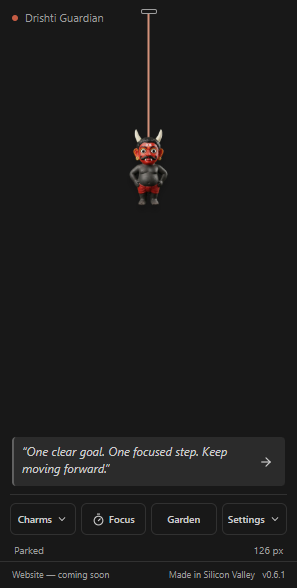
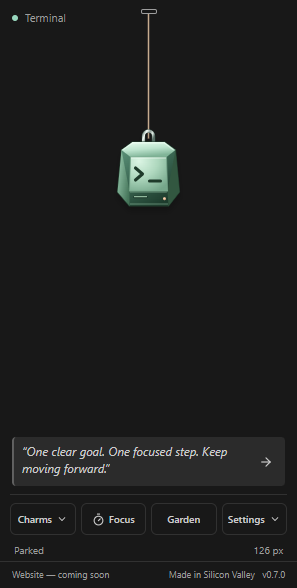
Fix photo cancellation and verify the refreshed collection

Changed region(s): [[0.3939, 0.0306, 0.6061, 0.3673], [0.0909, 0.0, 0.3333, 0.0612], [0.9091, 0.949, 0.9697, 0.9796]]

diff --git a/extension/src/test/companion-ui.test.ts b/extension/src/test/companion-ui.test.ts
@@ -1,7 +1,7 @@
 import { test, expect, _electron as electron, type ElectronApplication, type Frame, type Page, type TestInfo } from '@playwright/test';
 import { spawnSync } from 'node:child_process';
 import { resolveCliPathFromVSCodeExecutablePath } from '@vscode/test-electron';
-import { cpSync, existsSync, mkdirSync, mkdtempSync, readFileSync, realpathSync, writeFileSync } from 'node:fs';
+import { cpSync, existsSync, mkdirSync, mkdtempSync, readFileSync, readdirSync, realpathSync, writeFileSync } from 'node:fs';
 import { tmpdir } from 'node:os';
 import { dirname, join, resolve } from 'node:path';
 import { PNG } from 'pngjs';
@@ -900,6 +900,19 @@ test(`${installedPersonalization ? 'installed VSIX' : 'personalization'} keeps l
 				fixture.data.set(x < 200 ? [255, 0, 0, 255] : [0, 0, 255, 255], offset);
 			}
 		}
+		await frame.locator('#photo-file').focus();
+		await frame.locator('#photo-file').setInputFiles({ name: 'private-source.png', mimeType: 'image/png', buffer: PNG.sync.write(fixture) });
+		await expect(frame.locator('#photo-editor')).toHaveAttribute('data-photo-ready', 'true');
+		await expect(frame.locator('#photo-file')).toBeFocused();
+		await frame.locator('#photo-preview').click({ position: { x: 6, y: 6 } });
+		await editor.window.keyboard.press('Escape');
+		await expect(frame.locator('#photo-editor')).toBeHidden();
+		await expect(frame.locator('#stage')).toHaveAttribute('data-charm', 'live:smiley');
+		const photoDirectory = join(editor.storage, 'packs');
+		expect(existsSync(photoDirectory) ? readdirSync(photoDirectory).filter(file => file.startsWith('photo-')).length : 0).toBe(0);
+		await frame.getByRole('button', { name: 'Charm settings', exact: true }).click();
+		await frame.getByRole('menuitem', { name: 'Photo charms', exact: true }).click();
+		await expect(frame.locator('#photo-editor')).toHaveAttribute('data-photo-ready', 'false');
 		await frame.locator('#photo-file').setInputFiles({ name: 'private-source.png', mimeType: 'image/png', buffer: PNG.sync.write(fixture) });
 		await expect(frame.locator('#photo-editor')).toHaveAttribute('data-photo-ready', 'true');
 		await frame.locator('#photo-x').press('End');

diff --git a/website/review.html b/website/review.html
@@ -27,9 +27,13 @@
      <a class="button button-secondary" href="./assets/app-review/photo-crop-070.png" target="_blank" rel="noopener">Local photo editor</a>
      <a class="button button-secondary" href="./assets/app-review/garden-growth-070.png" target="_blank" rel="noopener">New garden stages</a>
      <a class="button button-secondary" href="./assets/app-review/flowers-070.png" target="_blank" rel="noopener">Rose colours, jasmine and lily</a>
+     <a class="button button-secondary" href="./assets/app-review/trial-cord-materials-070.png" target="_blank" rel="noopener">Eight cords inside the app</a>
+     <a class="button button-secondary" href="./assets/app-review/trial-new-flowers-070.png" target="_blank" rel="noopener">New flowers inside the app</a>
+     <a class="button button-secondary" href="./assets/app-review/trial-light-backgrounds-070.png" target="_blank" rel="noopener">Current light backgrounds</a>
     </div>
     <p class="small-note">The crop example uses a two-colour sample image. The garden sheet shows artwork at 96px; the flower sheet includes 72 by 84px charm-size samples on light and dark backgrounds. The garden can grow all eighteen varieties while preserving your current plant and collection.</p>
     <p class="small-note">The multi-charm layouts are concepts for review. The current app keeps one charm by default.</p>
+    <p class="small-note">The three new app comparisons use the installed 0.7.0 extension at 100% charm size, with normal motion enabled. Each panel is a separate selection. No packs were imported and garden progress stayed unchanged.</p>
    </details>
    <details class="review-captures">
     <summary>Smiley stress balls and Drishti variations in Charmlet 0.6.1</summary>

diff --git a/extension/src/photo-view.ts b/extension/src/photo-view.ts
@@ -115,6 +115,7 @@ export function createPhotoView(options: PhotoViewOptions): PhotoView {
 	}
 	async function loadPhoto(selected: File) {
 		const token = ++loadSequence;
+		const restoreFileFocus = document.activeElement === file;
 		bitmap?.close(); bitmap = undefined; draftPack = undefined;
 		loading = true; status('Preparing your local preview...'); controls();
 		try {
@@ -136,7 +137,12 @@ export function createPhotoView(options: PhotoViewOptions): PhotoView {
 				draw();
 			}
 		} finally {
-			if (token === loadSequence) { loading = false; controls(); }
+			if (token === loadSequence) {
+				loading = false; controls();
+				if (restoreFileFocus && !panel.hidden && document.activeElement === document.body) {
+					file.focus({ preventScroll: true });
+				}
+			}
 		}
 	}
 	function renderPhotos() {
@@ -189,7 +195,12 @@ export function createPhotoView(options: PhotoViewOptions): PhotoView {
 		canvas.classList.toggle('actual', (event.target as HTMLInputElement).checked);
 	});
 	closeButton.addEventListener('click', () => close());
-	panel.addEventListener('keydown', event => { if (event.key === 'Escape') { event.preventDefault(); event.stopPropagation(); close(); } });
+	// File loading can move focus to the body; Escape still dismisses the open tool.
+	document.addEventListener('keydown', event => {
+		if (event.key === 'Escape' && !panel.hidden) {
+			event.preventDefault(); event.stopPropagation(); close();
+		}
+	}, true);
 	removeNo.addEventListener('click', () => { confirm.hidden = true; removeId = undefined; });
 	removeYes.addEventListener('click', () => { if (removeId) { request('remove', removeId); } });
 	canvas.addEventListener('pointerdown', event => {

diff --git a/extension/src/test/extension.test.ts b/extension/src/test/extension.test.ts
@@ -226,8 +226,6 @@ test('real-editor charm supports docking, gestures, focus, persistence and reduc
 		await window.screenshot({ path: testInfo.outputPath('compact-window.png') });
 
 		await test.step('the free collection loads, keeps preferences and remembers its selection', async () => {
-			const lastCharm = CHARMS[CHARMS.length - 1];
-			expect(lastCharm.name).toBe('Original Lemon & Chilies');
 			await app.evaluate(({ BrowserWindow }) => BrowserWindow.getAllWindows()[0].setSize(1400, 900));
 			frame = await readyFrame(window);
 			await openAppearance(frame);
@@ -235,7 +233,11 @@ test('real-editor charm supports docking, gestures, focus, persistence and reduc
 			await expect(picker.locator('option')).toHaveCount(CHARMS.length);
 			await expect(picker.locator('optgroup')).toHaveCount(new Set(CHARMS.map(charm => charm.group)).size);
 			await expect(picker.locator('optgroup[label="Solar System"]')).toHaveCount(1);
-			await expect(picker.locator('optgroup[label="Originals"]')).toHaveCount(1);
+			await expect(picker.locator('option[value="terminal"]')).toHaveText('Terminal');
+			// Category grouping can place a newly appended charm inside an earlier group.
+			const lastId = await picker.locator('option').last().getAttribute('value');
+			const lastCharm = CHARMS.find(charm => charm.id === lastId)!;
+			expect(lastCharm).toBeDefined();
 			await frame.evaluate(() => {
 				const view = globalThis as unknown as Window & { __charmletRecordPreference: (value: unknown) => Promise<void> };
 				const capture = view.__charmletRecordPreference;

diff --git a/desktop/src/overlay.ts b/desktop/src/overlay.ts
@@ -80,7 +80,7 @@ function ensureMessages() {
 function setExpanded(value: boolean) {
 	if (value === expanded) { return; }
 	if (!value) {
-		for (const id of ['picker-close', 'menu-close', 'settings-close', 'companion-close']) {
+		for (const id of ['picker-close', 'menu-close', 'settings-close', 'companion-close', 'photo-close']) {
 			const close = element<HTMLButtonElement>(id);
 			if (close.getClientRects().length) { close.click(); }
 		}

diff --git a/docs/phase-8-personalization.md b/docs/phase-8-personalization.md
@@ -42,3 +42,13 @@ General implementation permission does not resolve these publication decisions. 
 - Desktop type/build and twelve model checks pass. Complete the full smoke, extracted archive and native Windows input gate on the isolated runner; local desktop mouse activity can interrupt synthetic hover.
 - Eight cord styles, the live face and private photos remain accessible on demand. The desktop starts with the charm alone. Bracelet and hanging-row pages are review concepts; one charm remains the implemented layout.
 - The native packaging command now fails clearly if it skipped an existing output; `--overwrite` explicitly rebuilds that generated candidate. This prevents a stale package from being mistaken for a successful rebuild.
+
+### Follow-up after the first hosted run
+
+All six editor jobs passed the eight companion scenarios, then reached an obsolete expectation for the retired Originals collection. The collection check now verifies Terminal and follows the actual grouped option order for keyboard End selection. Its selection, saved preference, reload and reset checks remain.
+
+Both desktop jobs exposed an Escape cancellation failure after loading a photo. Disabling the file input had moved focus outside the panel. The editor now restores file-input focus after decoding and handles Escape while the photo tool is open, including when focus is on its background. The desktop toolbar also closes the photo tool when hiding controls. The existing editor and desktop checks now verify cancellation without saving and a fresh empty preview on reopening.
+
+The updated personalisation check passes locally (22.9 seconds), the complete editor scenario passes (3.4 minutes), and the desktop development smoke passes (22.7 seconds). Native OS input and extracted archives still require the updated hosted run.
+
+Sixteen new captures from the installed 0.7.0 VSIX show all eight cord materials, the six new flowers and three light-background examples at 100% size. Normal motion stayed enabled, each picture uses one selected charm, and garden data remained unchanged. The current listing screenshots were refreshed from that installation.

diff --git a/PROJECT_LOG.md b/PROJECT_LOG.md
@@ -520,3 +520,7 @@ The owner approved colour figures over bronze, forward-facing open-eyed smileys 
 Local verification passes 81 shared models, twelve desktop models, 23 photo/art boundary checks and five release-check fixtures. Type/lint/build pass. Browser checks validate the 151-charm gallery, 191 current/archive images, 82 original comparisons, 19 review images and 22 packs with no narrow-screen overflow or page errors. Earlier editor checks verify Sunny and photo/win interactions; the full current platform and native-input matrix is the next gate.
 
 Review sheets include actual editor views, six new flower previews and two optional multi-charm concepts. Public licensing/lineup, publisher credentials, desktop signing/notarization and native macOS/mixed-display validation remain unresolved. See `docs/phase-8-personalization.md` for the concrete decisions and verification scope.
+
+The first PR28 matrix passed all eight companion scenarios on each editor platform but caught stale Originals/end-of-list expectations in the broader collection check. Both desktop jobs caught Escape failing after a photo load moved keyboard focus to the body. Focus restoration, open-photo Escape handling and closing photos through the desktop toolbar are now covered by the existing UI scenarios. Updated local personalisation (22.9s), full editor (3.4m) and desktop smoke (22.7s) pass; the updated hosted matrix remains pending.
+
+Sixteen actual installed-0.7.0 captures now show all eight matched cord materials, all six new flowers and light backgrounds. They preserve 100% size, normal motion, one charm per capture and unchanged garden state. The listing screenshots and review links use these current captures.
